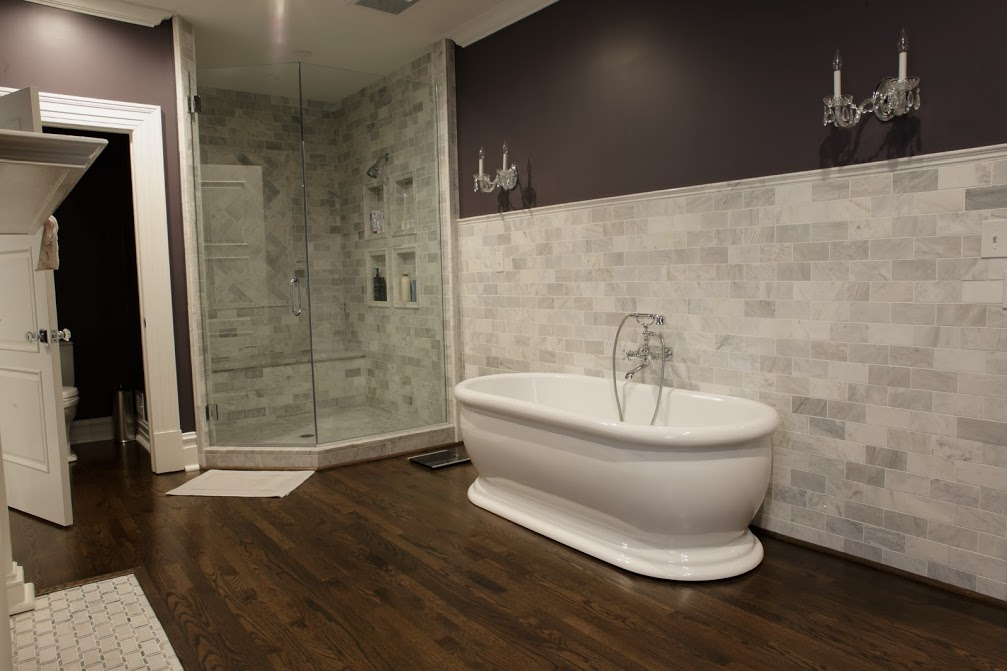
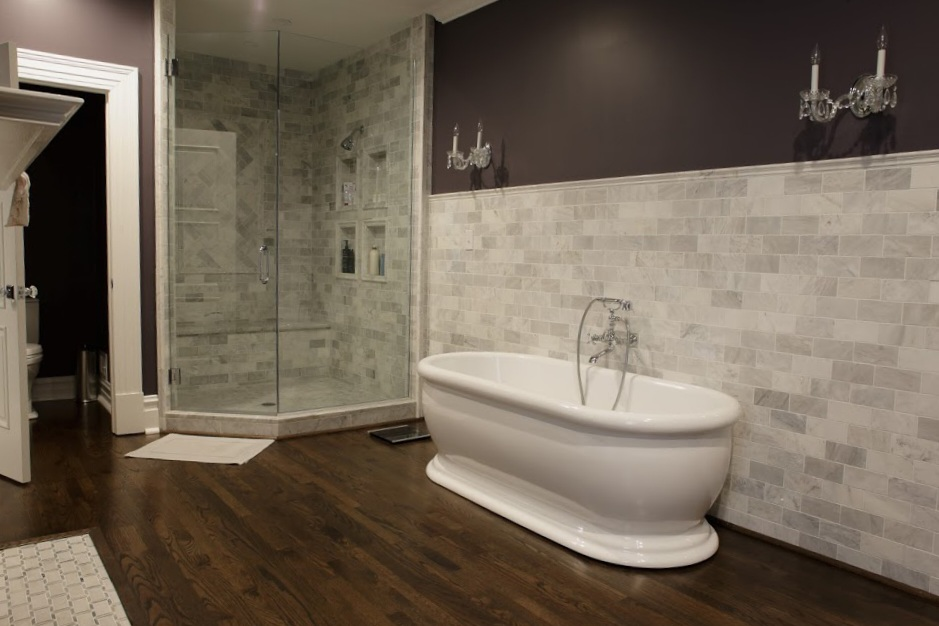
added new photos and fixed angle of bathroomTub

diff --git a/src/components/pages/Home.tsx b/src/components/pages/Home.tsx
@@ -8,7 +8,10 @@ import JeffsDen2 from '../../images/IMG_8042.CR2-ed.jpg';
 import Kitchen from '../../images/kitchenBackgroundFULL.jpg';
 import KitchenWindow from '../../images/kitchenSinkWindow.jpg';
 import BathroomTub from '../../images/bathroomTub.jpg';
-import Bathroom from '../../images/whiteMarbleBathroom.jpg';
+import Bedroom1 from '../../images/bedroom_suite_photo_2.jpg';
+import Bedroom2 from '../../images/bedroom_suite_photo_1.jpg';
+import Bedroom3 from '../../images/bedroom_suite_photo_3.jpg';
+
 import FlowerGarden from '../../images/flowerGarden.jpg';
 import LaundryRoom from '../../images/IMG_8322.jpg';
 
@@ -26,7 +29,6 @@ const QuoteButton = Styled.button`
   transition: all 200ms ease-in-out;
   &:hover {
     box-shadow: inset 4px 4px 8px 0 rgba(0,0,0,0.2), 0 3px 10px 0 rgba(0,0,0,0.19);
-    opacity: 1;
   }
 `
 
@@ -74,11 +76,21 @@ class Home extends Component {
                 </div>
 
                 <div className='frontPagePhoto6'>
-                  <img src={Bathroom} className='frontPageImage' alt='Bathroom showing stairs on left, sinks in the middle, and toilet in small room on the right' />
-                  <p className='homeBottomPhotoText'>Spectacular Bathrooms</p>
+                  <img src={Bedroom1} className='frontPageImage' alt='Bathroom showing stairs on left, sinks in the middle, and toilet in small room on the right' />
+                  <p className='homeBottomPhotoText'>Spectacular Bedroom Suites</p>
                 </div>
 
                 <div className='frontPagePhoto7'>
+                  <img src={Bedroom2} className='frontPageImage' alt='Bathroom showing stairs on left, sinks in the middle, and toilet in small room on the right' />
+                  <p className='homeBottomPhotoText'>Inviting Bedrooms</p>
+                </div>
+                
+                <div className='frontPagePhoto8'>
+                  <img src={Bedroom3} className='frontPageImage' alt='Bathroom showing stairs on left, sinks in the middle, and toilet in small room on the right' />
+                  <p className='homeBottomPhotoText'>Inviting Bedrooms</p>
+                </div>
+
+                <div className='frontPagePhoto9'>
                 <img src={KitchenWindow} className='frontPageImage' alt='Kitchen window' />
                   <p className='homeBottomPhotoText'>Breathtaking Kitchens</p>
                 </div>
